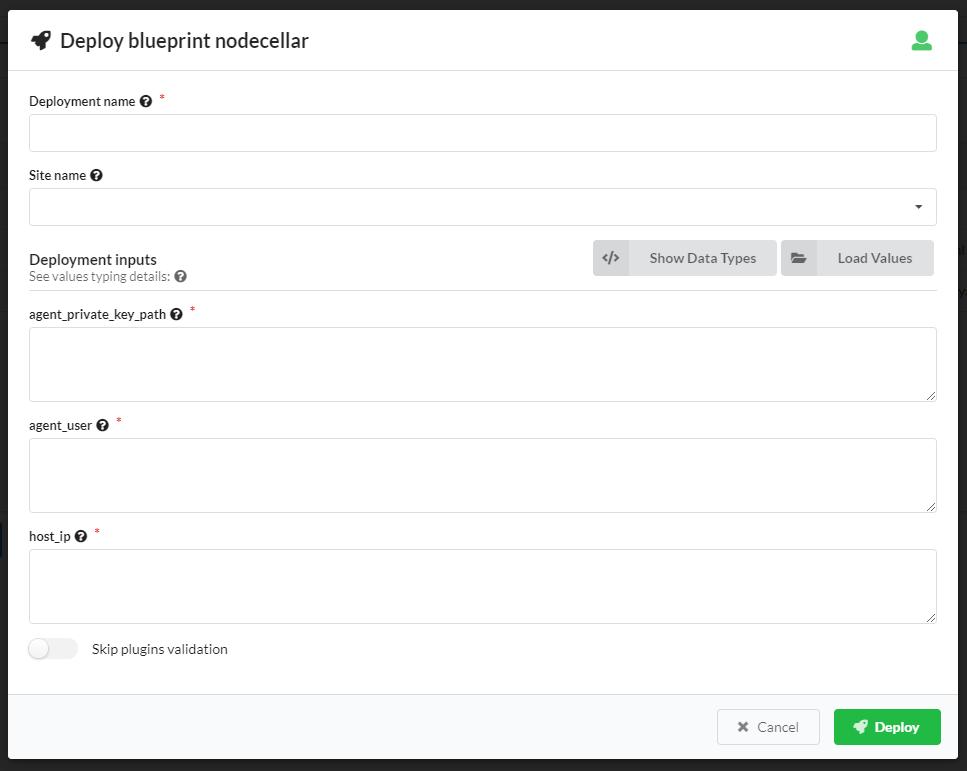
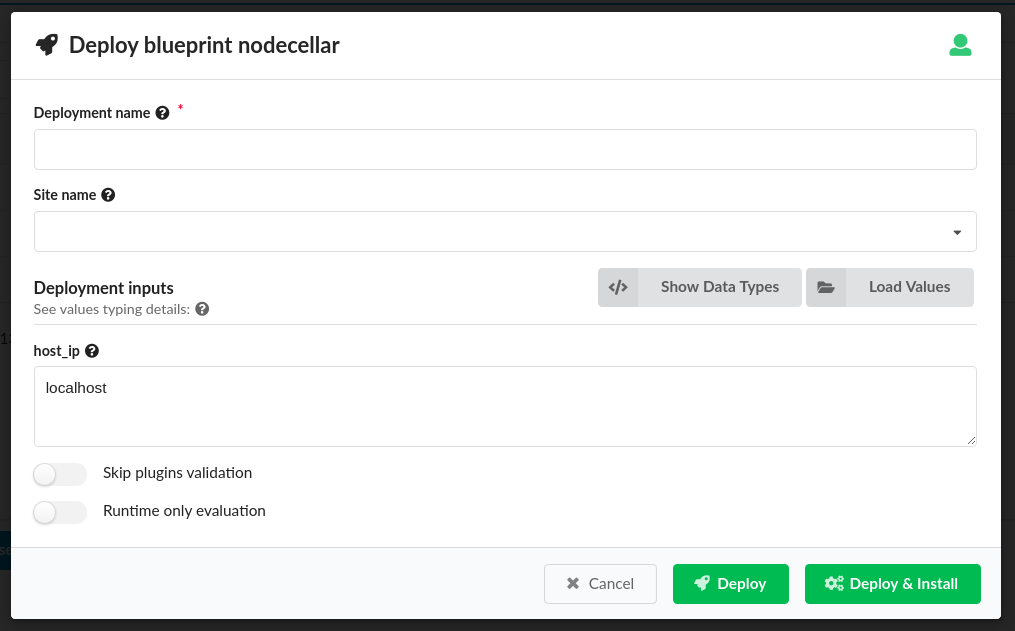
CY-2508 - Updated documentation for related to Deployment Creation modal

diff --git a/content/working_with/manager/create-deployment.md b/content/working_with/manager/create-deployment.md
@@ -13,16 +13,6 @@ In order for Cloudify to deploy your application, it reads the uploaded blueprin
 
 Creating a deployment does not actually create any resources, it simply generates a "physical" representation of your application from a "logical" (blueprint) representation and stores it in the database. Technically, it is a virtual environment on Cloudify Manager.
 
-
-## Creating a Deployment via the CLI
-
-To create a deployment using the Cloudify CLI execute:
-
-{{< highlight  bash >}}
-cfy deployments create -b <BLUEPRINT_NAME> <DEPLOYMENT_NAME> --inputs </path/to/your/inputs.yaml>
-{{< /highlight >}}
-
-
 ## Creating a Deployment via the Cloudify Console
 
 1. On the Blueprints widget, select the required blueprint and click **Deploy**.
@@ -32,7 +22,10 @@ cfy deployments create -b <BLUEPRINT_NAME> <DEPLOYMENT_NAME> --inputs </path/to/
    * Specify the input parameters
    * Enter the location of a file that contains the input parameters
 
-3. Click **Deploy**.   
+3. Click one of the options:
+
+   * **Deploy** to just create deployment 
+   * **Deploy & Install** to create and install deployment
 
 After creating the deployment, you can open the Deployment widget to track the initialization stage.<br/>
 ![Deployment initialize]( /images/manager/ui-initialize-deployment.png )<br>
@@ -40,6 +33,15 @@ After creating the deployment, you can open the Deployment widget to track the i
 For information about deployment states, see the [Deployments Page]({{< relref "working_with/console/deployments-page.md" >}}) documentation.
 
 After initialization is complete, you can start using the deployment and executing workflows.
+
+
+## Creating a Deployment via the CLI
+
+To create a deployment using the Cloudify CLI execute:
+
+{{< highlight  bash >}}
+cfy deployments create -b <BLUEPRINT_NAME> <DEPLOYMENT_NAME> --inputs </path/to/your/inputs.yaml>
+{{< /highlight >}}
 
 
 #### Example: Creating a Deployment

diff --git a/content/working_with/console/local-blueprints-page.md b/content/working_with/console/local-blueprints-page.md
@@ -41,7 +41,8 @@ You can also upload blueprints from the Blueprints Catalog page, by clicking on 
    The names of the default input values appear in the inputs fields. You can leave these defaults or override them with new values. 
    Input's description (on hovering help icon ![Help icon]( /images/ui/icons/help-icon.png )) might help you understand how to fill-in the proper value. 
    Another alternative for providing the inputs is by specifying a .yaml file containing the relevant values. 
-4. Click **Deploy** to deploy the blueprint.<br>
+4. Click **Deploy** to deploy the blueprint or **Deploy & Install** to deploy and execute `install` workflow on it.
+
 
 ![Create a deployment]( /images/ui/blueprintsPage/deployment_creation.png )
 
